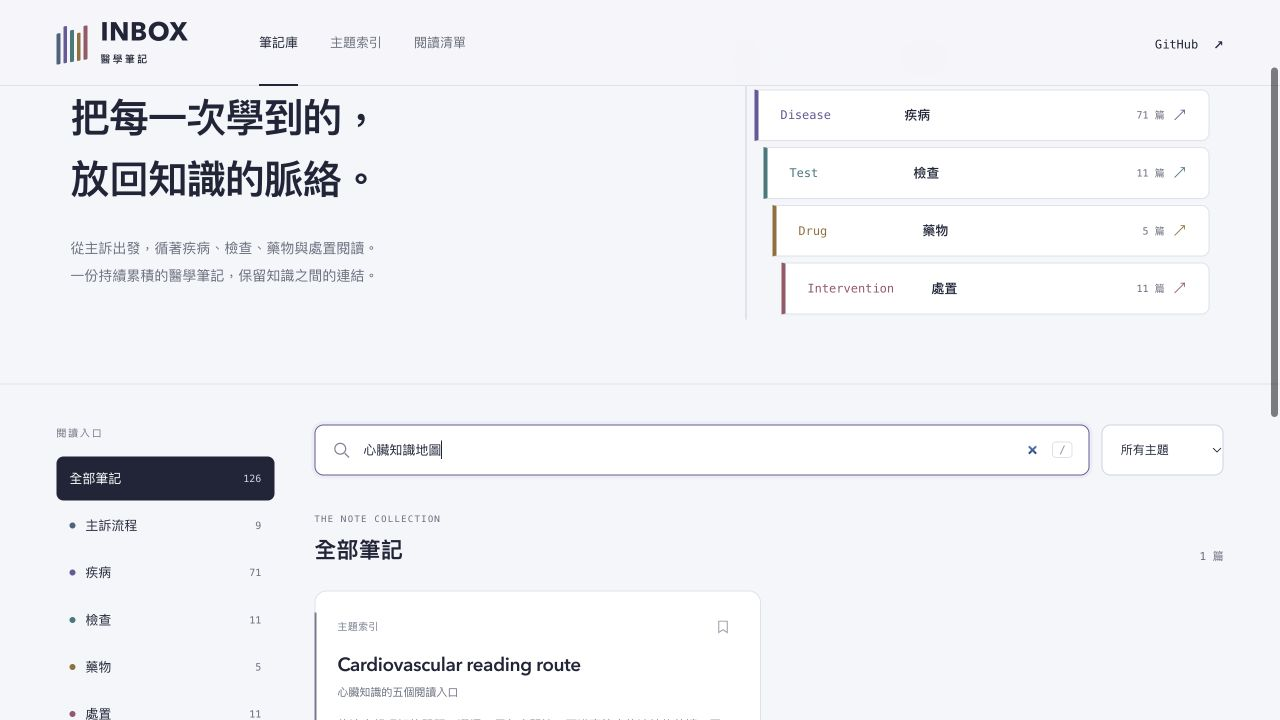
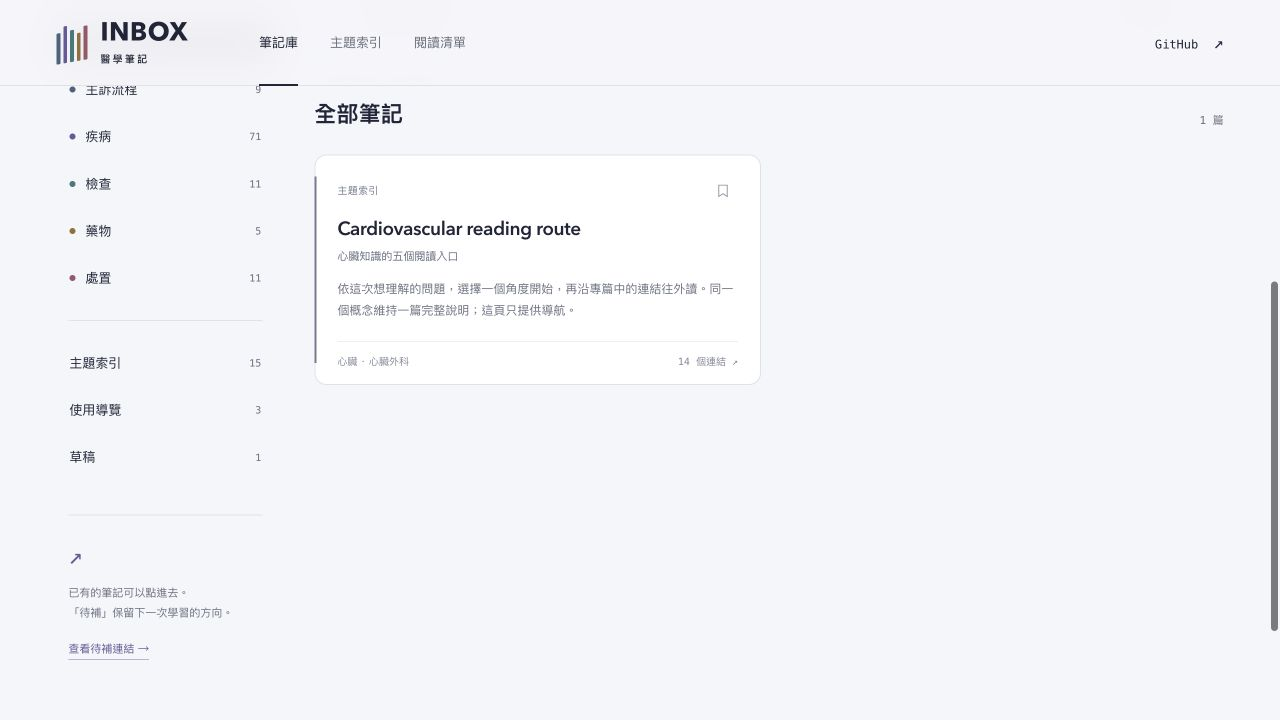
Add responsive preview and extension verification screenshots

diff --git a/docs/validation.md b/docs/validation.md
@@ -20,6 +20,8 @@
 - 390 × 844 手機 viewport 檢查首頁與 ACS 文章。文章 document width 與 viewport 都是 390 px，沒有整頁水平溢出；表格與流程圖保留各自可捲動的容器。
 - ACS 文章中的兩張流程圖都完成渲染，當頁已載入圖片沒有失敗項目。
 
+成果畫面：[桌面首頁](screenshots/home-desktop.jpg)、[手機首頁](screenshots/home-mobile.jpg)、[新增內容搜尋結果](screenshots/extension-search.jpg)。
+
 ## 公開副本
 
 - 不包含原 Vault 的設定、聊天紀錄、Git 歷史、帳號檔案或獨立題庫 HTML。
